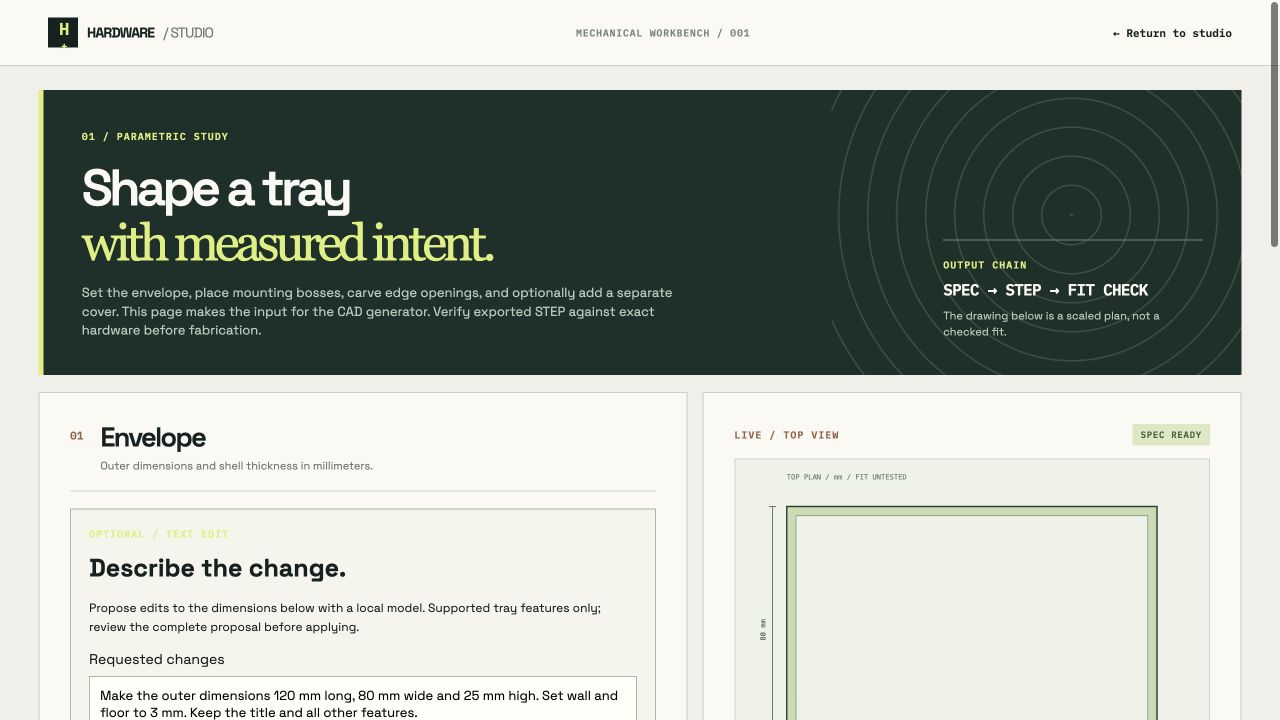
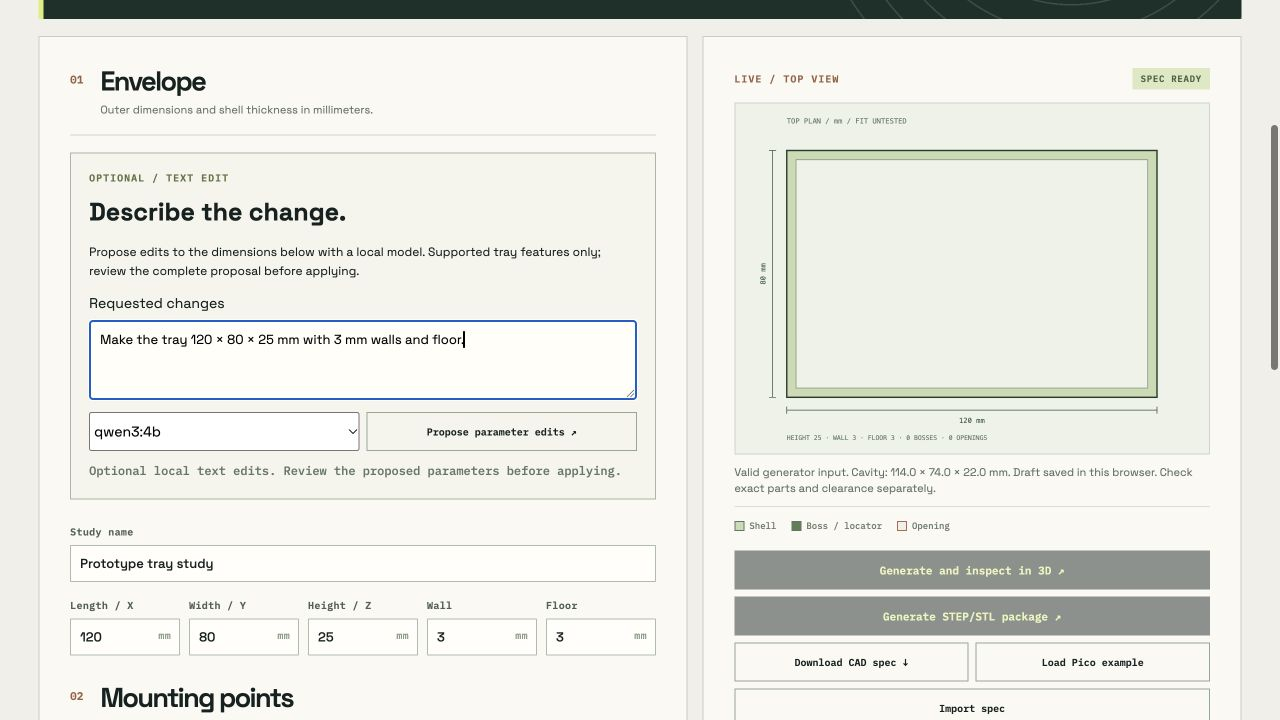
Polish text-edit control contrast and phone layout

diff --git a/tray.css b/tray.css
@@ -12,3 +12,6 @@
 .cover-toggle{display:flex;align-items:center;gap:10px;min-height:40px;margin:2px 0 12px;color:var(--ink);cursor:pointer}.cover-toggle input{width:17px;height:17px;margin:0;accent-color:#617b48}.cover-fields{grid-template-columns:repeat(4,minmax(0,1fr));padding:14px;border:1px solid #cbd6c8;background:#f3f6ef}.cover-fields.is-disabled{opacity:.56}.cover-fields input:disabled{background:#edf0e9}.cover-outline{stroke:#a48a32;stroke-width:2;stroke-dasharray:7 5;fill:none}@media(max-width:1050px){.cover-fields{grid-template-columns:repeat(2,minmax(0,1fr))}}@media(max-width:420px){.cover-fields{grid-template-columns:repeat(2,minmax(0,1fr))}}
 .window-toggle{margin-top:10px}.cover-window-note{margin:9px 0 0;color:var(--muted);font-size:11px;line-height:1.5}.light-opening{fill:#e4da6c;fill-opacity:.28;stroke:#9e8127;stroke-width:2}
 .intent-panel{border:1px solid #a8b6a2;padding:18px;margin:0 0 26px;background:#f5f5ed}.intent-panel h2{margin:10px 0;font-size:25px}.intent-panel p{font-size:12px;line-height:1.6}.intent-panel textarea{display:block;width:100%;box-sizing:border-box;min-height:80px;padding:10px;background:#fffef8;border:1px solid #a8b6a2;font-family:inherit;font-size:13px;margin:7px 0 12px}.intent-panel pre{max-height:280px;overflow:auto;padding:12px;background:#14211f;color:#edf2e7;font:11px/1.6 monospace}.intent-panel select{max-width:100%;min-height:34px}.intent-panel .actions{flex-wrap:wrap}[hidden]{display:none!important}
+
+.intent-panel .eyebrow{color:#61733f}.intent-panel{min-width:0}.intent-panel pre{max-width:100%;box-sizing:border-box}.intent-panel textarea{resize:vertical}
+.intent-panel .actions>select{flex:1 1 180px;min-width:0}.intent-panel .actions>button{flex:1 1 170px}

diff --git a/tray.html b/tray.html
@@ -6,7 +6,7 @@
   <meta name="viewport" content="width=device-width, initial-scale=1">
   <meta name="color-scheme" content="light">
   <title>Tray workbench — Hardware Studio</title>
-  <link rel="stylesheet" href="./tray.css?v=6">
+  <link rel="stylesheet" href="./tray.css?v=8">
 </head>
 <body>
   <header class="bar"><a class="brand" href="./index.html"><span class="mark">H<span>+</span></span> HARDWARE <em>/ STUDIO</em></a><span class="edition">MECHANICAL WORKBENCH / 001</span><a class="back" href="./index.html">← Return to studio</a></header>
